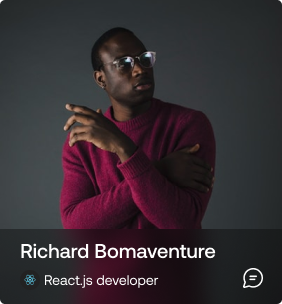
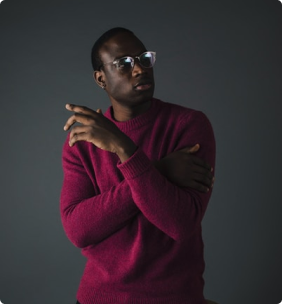
add developers

Changed region(s): [[0.0, 0.7401, 0.766, 1.0], [0.8511, 0.8586, 0.9362, 0.9474]]

diff --git a/src/components/FeatDevelopers.jsx b/src/components/FeatDevelopers.jsx
@@ -1,15 +1,48 @@
-import React from 'react'
-
+import React from "react";
+import { developers } from "./data";
+import chatIcon from "../assets/Vector.png";
 const FeatDevelopers = () => {
   return (
-    <div className='flex flex-col w-full py-6 px-4 sm:px-10 lg:px-14 xl:px-32 bg-[#090707] text-white sm:h-screen h-auto '>
-        <div className="flex flex-col mb-8">
-            <h2 className='text-3xl font-medium'>Featured Developers</h2>
-            <h4 className='text-base font-extralight mt-3'>Use our featured developers for your web projects</h4>
-        </div>
-        
+    <div className="flex flex-col w-full pt-20 px-4 sm:px-10 lg:px-14 xl:px-32 bg-[#090707] text-white h-auto ">
+      <div className="flex flex-col mb-5 pt-2">
+        <h2 className="text-3xl font-medium">Featured Developers</h2>
+        <h4 className="text-base font-extralight mt-3">
+          Use our featured developers for your web projects
+        </h4>
+      </div>
+      <div className="grid grid-cols-1 sm:grid-cols-2 md:grid-cols-3 lg:grid-cols-4 gap-3 ">
+        {developers.map((developer) => (
+          <div className="">
+            <img src={developer.userImage} alt={developer.name} className=" " />
+            <div
+              className="group-hover:cursor-pointer group-hover:block hidden  w-full backdrop-blur-xl absolute bottom-0 left-0  bg-[rgba(9, 7, 7, 0.4)] p-2 transition-all duration-300 ease-in-out "
+              style={{ borderRadius: "0 0 5px 5px" }}>
+              <div className="px-2">
+                <h1 className="pl-1">{developer.name}</h1>
+                <div className="flex items-center">
+                  <img
+                    src={developer.toolImage}
+                    alt={developer.job}
+                    className="w-6 mr-1"
+                  />
+                  <h3 className="font-thin text-xs">{developer.job}</h3>
+                </div>
+              </div>
+              <img
+                src={chatIcon}
+                alt="chat-icon"
+                className="absolute bottom-3 right-3 cursor-pointer"
+              />
+            </div>
+          </div>
+        ))}
+      </div>
+      <div className="flex justify-center items-center py-10">
+        <button className="flex justify-center items-center h-14 w-full sm:w-60 bg-blue-600 hover:bg-white hover:text-blue-600 transition-all duration-300 text-base rounded-[4px] mt-2 sm:mr-5">
+          Get featured
+        </button>
+      </div>
     </div>
-  )
-}
-
-export default FeatDevelopers
+  );
+};
+export default FeatDevelopers;

diff --git a/src/components/BuildYourWeb.jsx b/src/components/BuildYourWeb.jsx
@@ -2,7 +2,7 @@ import React from "react";
 import Cartimg from "../assets/Cart.png";
 import Cardimg from "../assets/Card.png";
 import Searchimg from "../assets/Search.png";
-import logoDetails from "./logoDetails";
+import {logoDetails} from "./data";
  
 const BuildYourWeb = () => {
   return (
